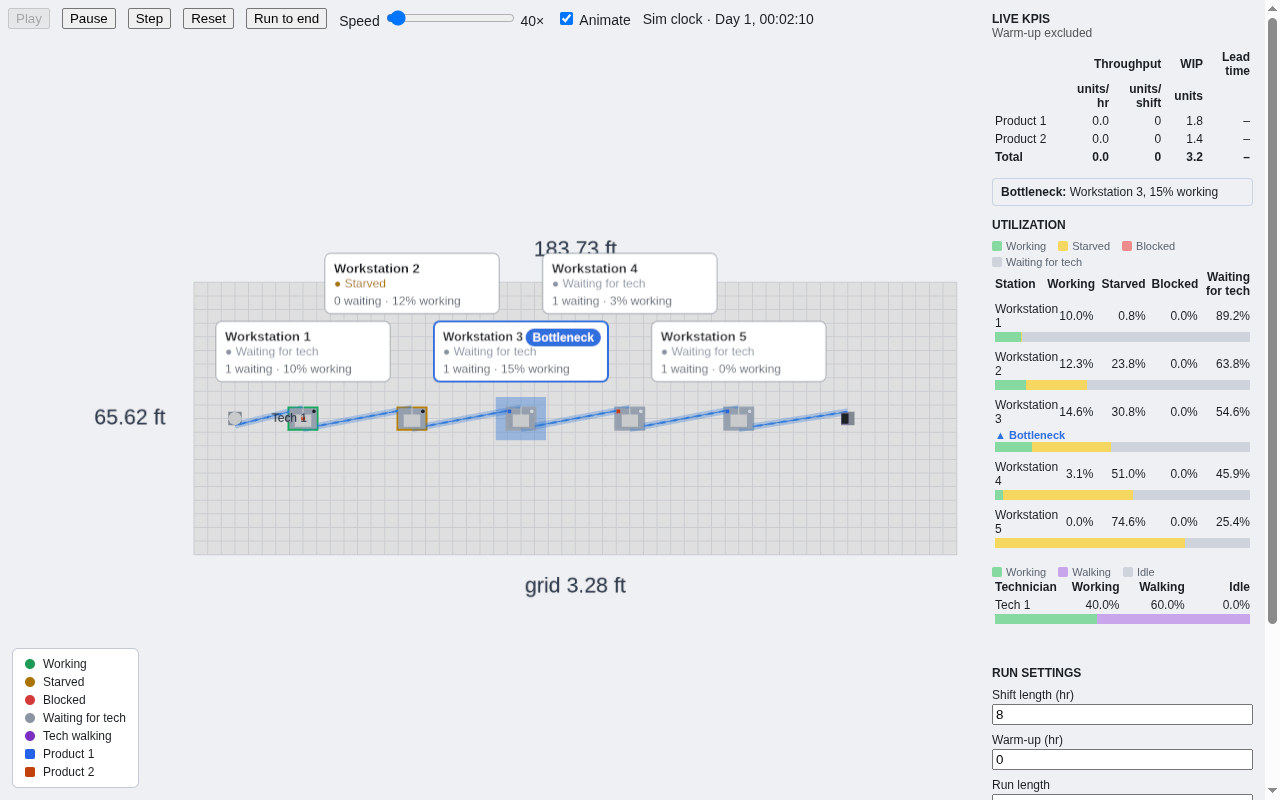
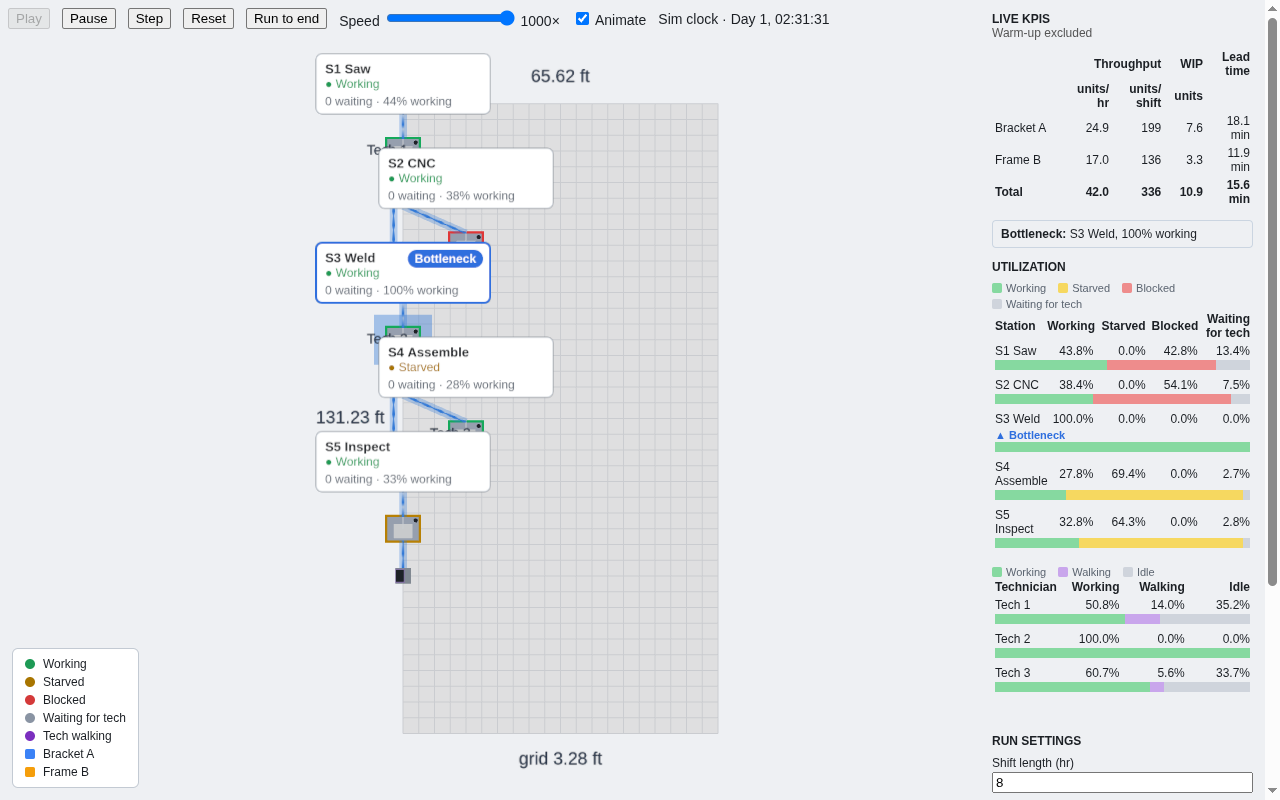
UI-5: place callout cards side by side on stacked lines; screenshots of the reference model
Cards on a line that runs along the view's depth axis piled off the top edge; placeCards
now tries above, right, left, then lifted tiers, inside the viewport.

diff --git a/apps/web/src/simulation/callouts.ts b/apps/web/src/simulation/callouts.ts
@@ -69,3 +69,56 @@ export const connectionLook = (
   playing: boolean,
 ): { kind: 'flow' | 'blocked'; flowing: boolean } =>
   from === 'blocked' ? { kind: 'blocked', flowing: false } : { kind: 'flow', flowing: playing };
+
+/**
+ * Screen position (top-left, px) of each card, given its station's screen point. Each card tries
+ * above its station, then to the right, then to the left, then above but lifted tier by tier;
+ * the first spot inside the viewport that clears the cards already placed wins. Lines that run
+ * along the view's depth axis (stations stacked on screen) end up with cards alternating sides
+ * instead of piling off the top edge.
+ */
+export function placeCards(
+  anchors: readonly { x: number; y: number }[],
+  size: { w: number; h: number },
+  viewport: { w: number; h: number },
+  leader = 36,
+  gap = 6,
+): { x: number; y: number }[] {
+  const { w, h } = size;
+  const out = new Array<{ x: number; y: number }>(anchors.length);
+  const placed: Rect[] = [];
+  const margin = 4;
+  const inside = (r: Rect) =>
+    r.x >= margin &&
+    r.y >= margin &&
+    r.x + r.w <= viewport.w - margin &&
+    r.y + r.h <= viewport.h - margin;
+  const clear = (r: Rect) =>
+    placed.every(
+      (p) =>
+        r.x + r.w + gap <= p.x ||
+        p.x + p.w + gap <= r.x ||
+        r.y + r.h + gap <= p.y ||
+        p.y + p.h + gap <= r.y,
+    );
+  // Back-to-front (top of the screen first) so nearer stations keep the nicer spots.
+  const order = anchors.map((_, i) => i).sort((a, b) => anchors[a]!.y - anchors[b]!.y || a - b);
+  for (const i of order) {
+    const a = anchors[i]!;
+    const above = { x: a.x - w / 2, y: a.y - leader - h };
+    const side = a.y - h / 2 - 10;
+    const candidates = [
+      above,
+      { x: a.x + 28, y: side },
+      { x: a.x - 28 - w, y: side },
+      ...[1, 2, 3, 4].map((k) => ({ x: above.x, y: above.y - k * (h + gap) })),
+      ...[1, 2].map((k) => ({ x: a.x + 28, y: side + k * (h + gap) })),
+      ...[1, 2].map((k) => ({ x: a.x - 28 - w, y: side + k * (h + gap) })),
+    ];
+    const pick =
+      candidates.find((c) => inside({ ...c, w, h }) && clear({ ...c, w, h })) ?? candidates[0]!;
+    out[i] = pick;
+    placed.push({ ...pick, w, h });
+  }
+  return out;
+}

diff --git a/apps/web/src/simulation/StationCallouts.tsx b/apps/web/src/simulation/StationCallouts.tsx
@@ -2,7 +2,7 @@ import { useEffect, useMemo } from 'react';
 import { useFrame } from '@react-three/fiber';
 import * as THREE from 'three';
 import type { Equipment } from '@factory-sim/schema';
-import { MIN_TEXT_PX, calloutLines, pixelsPerMeter, resolveOverlaps, type Rect } from './callouts';
+import { MIN_TEXT_PX, calloutLines, pixelsPerMeter, placeCards } from './callouts';
 import type { RunSession } from './runSession';
 import { lightSegments } from './stationStatus';
 import { stationUtilization } from './utilization';
@@ -162,22 +162,24 @@ export function StationCallouts({
         sy: ((1 - ndc.y) / 2) * size.height,
       };
     });
-    const rects: Rect[] = anchors.map((a) => ({
-      x: a.sx - CARD_W / 2,
-      y: a.sy - LEADER_PX - CARD_H,
-      w: CARD_W,
-      h: CARD_H,
-    }));
-    const lifts = resolveOverlaps(rects);
+    const spots = placeCards(
+      anchors.map((a) => ({ x: a.sx, y: a.sy })),
+      { w: CARD_W, h: CARD_H },
+      { w: size.width, h: size.height },
+      LEADER_PX,
+    );
     cards.forEach((c, i) => {
       const a = anchors[i]!;
+      const spot = spots[i]!;
       const ppm = pixelsPerMeter(cam, size.height, a.depth);
       const toWorld = (sx: number, sy: number, out: THREE.Vector3) =>
         out.set((sx / size.width) * 2 - 1, 1 - (sy / size.height) * 2, a.ndc.z).unproject(camera);
-      const cardBottom = a.sy - LEADER_PX - lifts[i]!;
-      toWorld(a.sx, cardBottom - CARD_H / 2, c.sprite.position);
+      toWorld(spot.x + CARD_W / 2, spot.y + CARD_H / 2, c.sprite.position);
       c.sprite.scale.set(CARD_W / ppm, CARD_H / ppm, 1);
-      toWorld(a.sx, cardBottom, scratch.b);
+      // The leader ends at the card's edge point nearest the station.
+      const ex = Math.min(Math.max(a.sx, spot.x), spot.x + CARD_W);
+      const ey = Math.min(Math.max(a.sy, spot.y), spot.y + CARD_H);
+      toWorld(ex, ey, scratch.b);
       const pos = c.leader.geometry.getAttribute('position') as THREE.BufferAttribute;
       pos.setXYZ(0, c.station.position.x, c.station.height, c.station.position.y);
       pos.setXYZ(1, scratch.b.x, scratch.b.y, scratch.b.z);

diff --git a/apps/web/src/simulation/UI-5.status.test.ts b/apps/web/src/simulation/UI-5.status.test.ts
@@ -6,6 +6,7 @@ import {
   calloutLines,
   connectionLook,
   pixelsPerMeter,
+  placeCards,
   resolveOverlaps,
 } from './callouts';
 import { fitOrtho } from '../layout/cameraFit';
@@ -85,5 +86,29 @@ describe('UI-5 AC7: idle is "Waiting for tech"', () => {
     expect(stateLabel('working')).toBe('Working');
     expect(stateLabel('starved')).toBe('Starved');
     expect(stateLabel('blocked')).toBe('Blocked');
+  });
+});
+
+describe('UI-5 AC2: cards on a line that runs along the depth axis', () => {
+  it('five stations stacked on screen get non-overlapping cards inside the viewport', () => {
+    // The reference line seen from the front: stations in a column, 70 px apart.
+    const anchors = [0, 1, 2, 3, 4].map((i) => ({ x: 400, y: 200 + i * 70 }));
+    const size = { w: 176, h: 62 };
+    const viewport = { w: 980, h: 800 };
+    const spots = placeCards(anchors, size, viewport);
+    const rects = spots.map((s) => ({ ...s, ...size }));
+    for (const r of rects) {
+      expect(r.x).toBeGreaterThanOrEqual(0);
+      expect(r.y).toBeGreaterThanOrEqual(0);
+      expect(r.x + r.w).toBeLessThanOrEqual(viewport.w);
+      expect(r.y + r.h).toBeLessThanOrEqual(viewport.h);
+    }
+    for (let i = 0; i < 5; i++)
+      for (let j = i + 1; j < 5; j++) {
+        const a = rects[i]!;
+        const b = rects[j]!;
+        const overlap = a.x < b.x + b.w && b.x < a.x + a.w && a.y < b.y + b.h && b.y < a.y + a.h;
+        expect(overlap).toBe(false);
+      }
   });
 });
